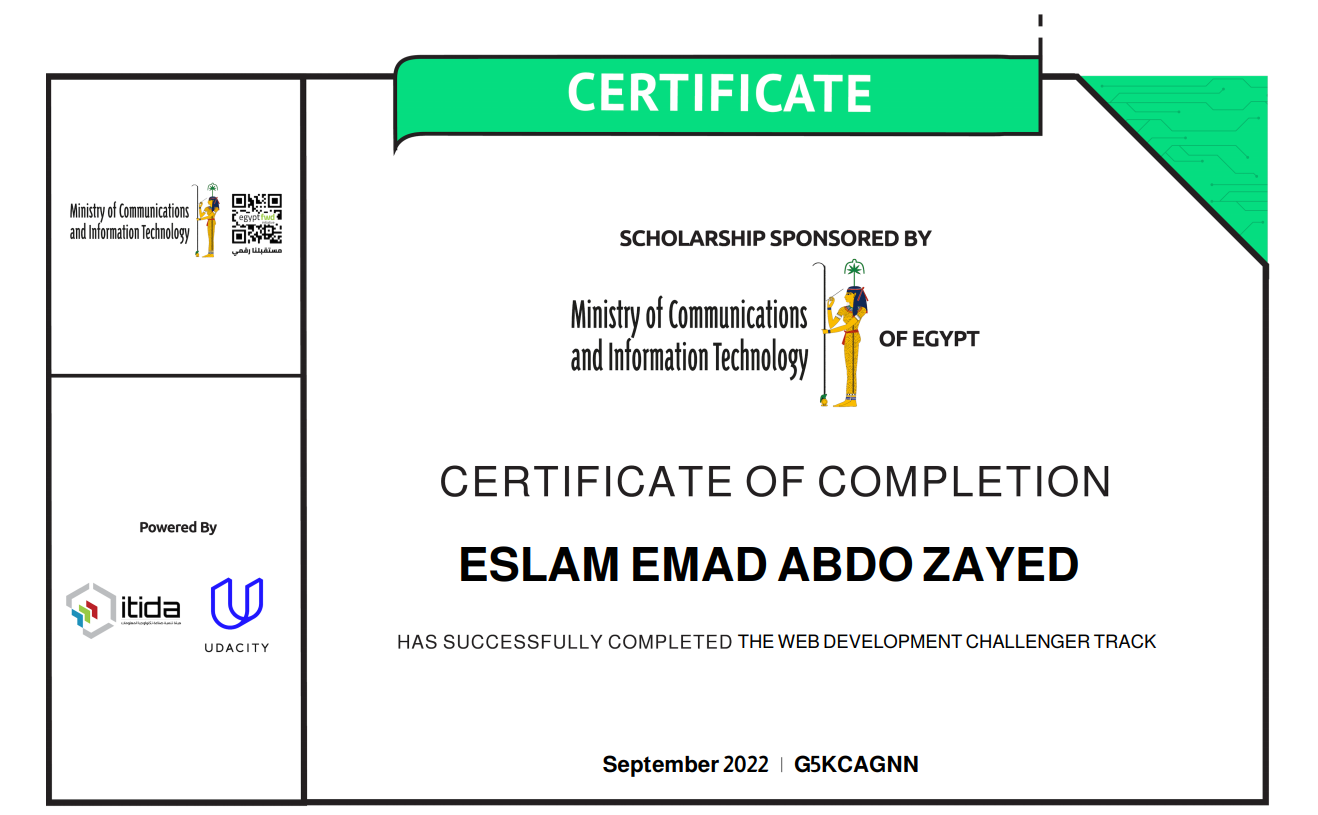
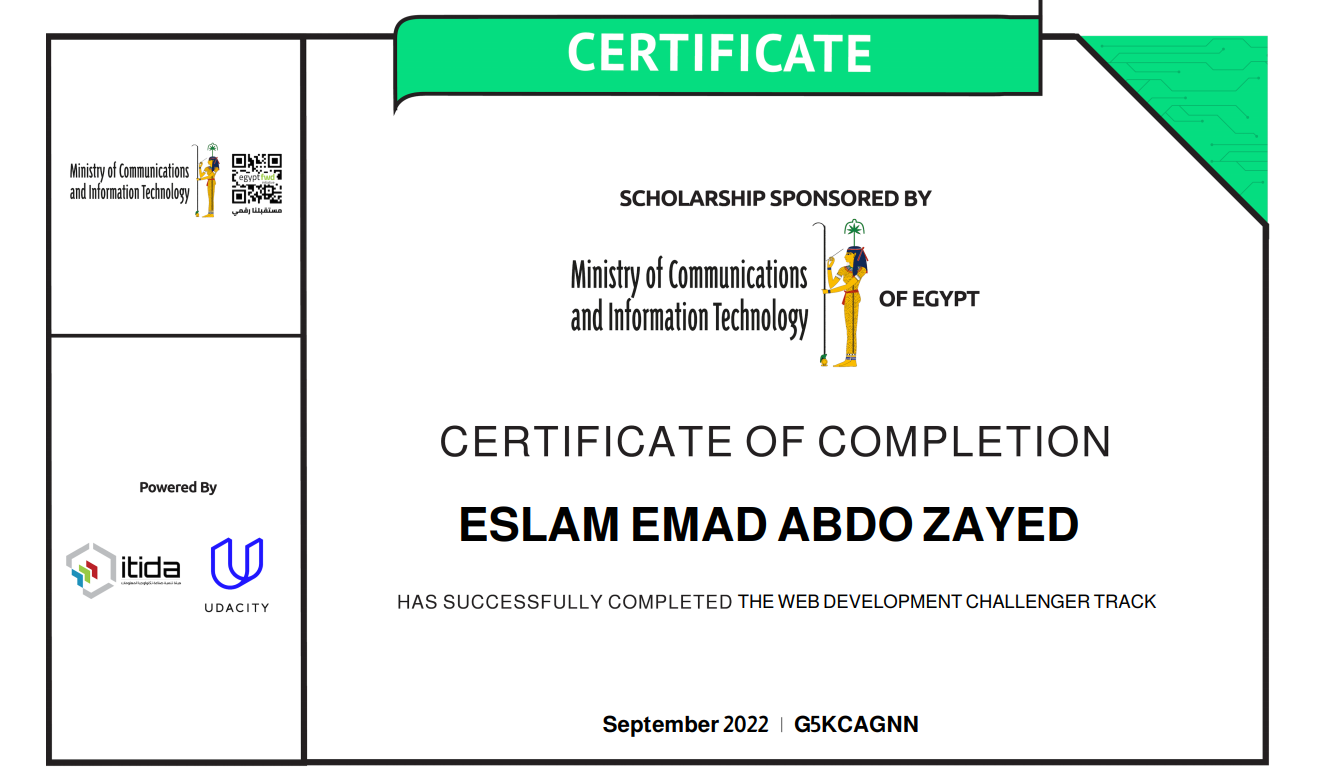
change certifcate image

diff --git a/Portfolio/index.html b/Portfolio/index.html
@@ -284,7 +284,9 @@
                     <div class="col-md-6">
                         <div class="scale">
                             <div class="card" >
-                                <img src="./images/route.jpg" class="card-img-top" alt="...">
+                                <div class="img-card">
+                                    <img src="./images/certicateRoute.jpg" class="w-100 h-100" alt="...">
+                                </div>
                                 <div class="card-body">
                                     <h5 class="card-title main-color fw-bolder">Route Academy</h5>
                                     <p class="card-text">Front-end web development with Angular framework</p>
@@ -295,7 +297,9 @@
                     <div class="col-md-6">
                         <div class="scale">
                             <div class="card" >
-                                <img src="./images/Certificate.png" class="card-img-top " alt="...">
+                                <div class="img-card">
+                                    <img src="./images/Certificate.png" class="w-100 h-100 " alt="...">
+                                </div>
                                 <div class="card-body">
                                     <h5 class="card-title main-color fw-bolder">Udacity (itida)</h5>
                                     <p class="card-text">The web development challenger track</p>

diff --git a/Portfolio/css/style.css b/Portfolio/css/style.css
@@ -202,4 +202,7 @@ a {
     background-color: var(--main-color);
     color: white;
 }
+.img-card {
+    height: 410px;
+}
 /* end contact */
